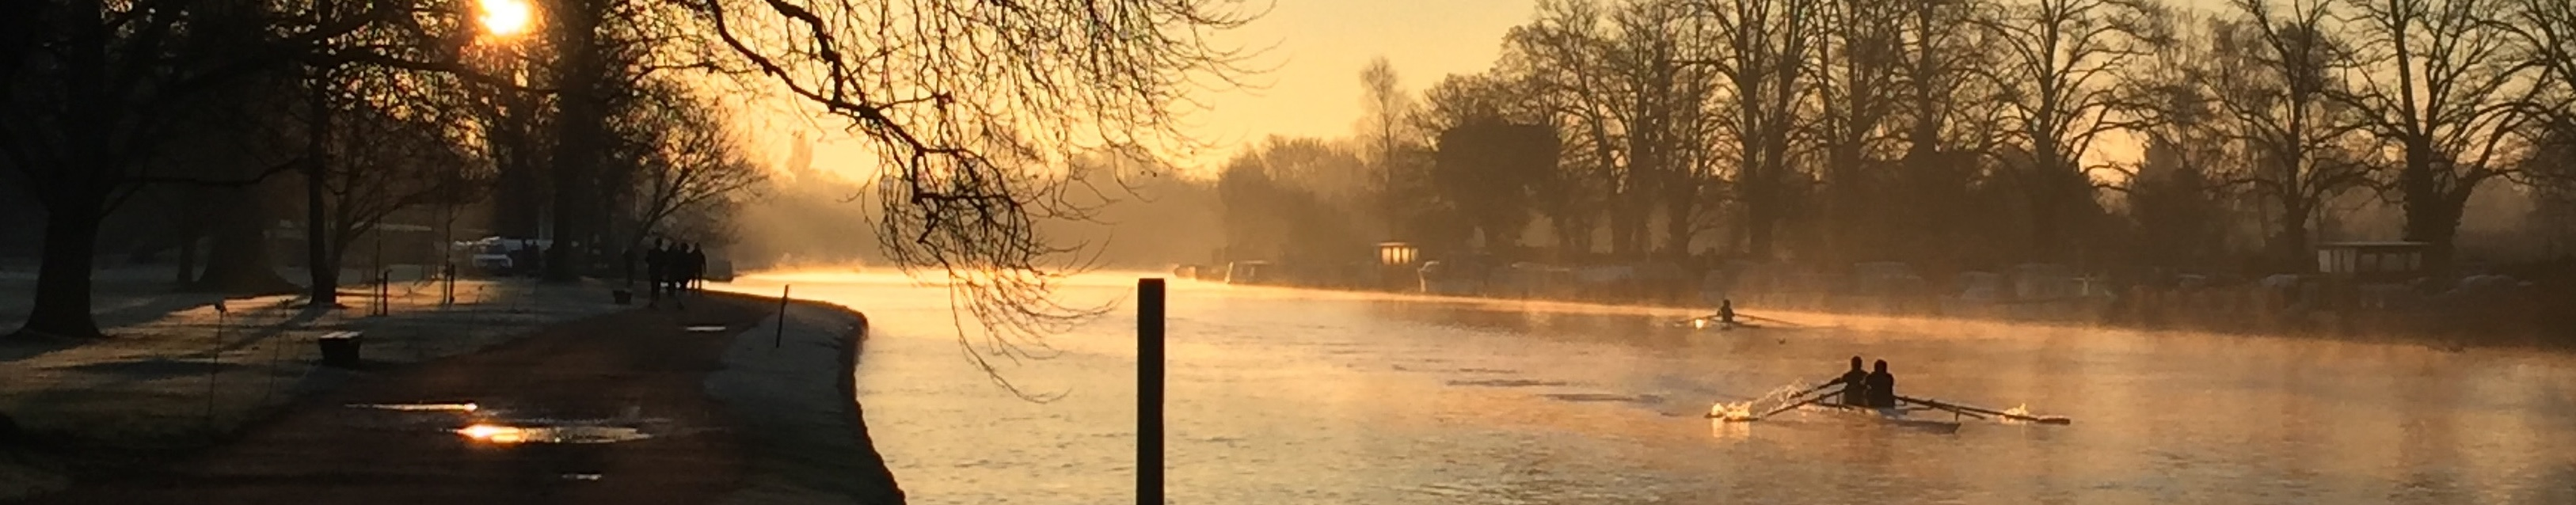
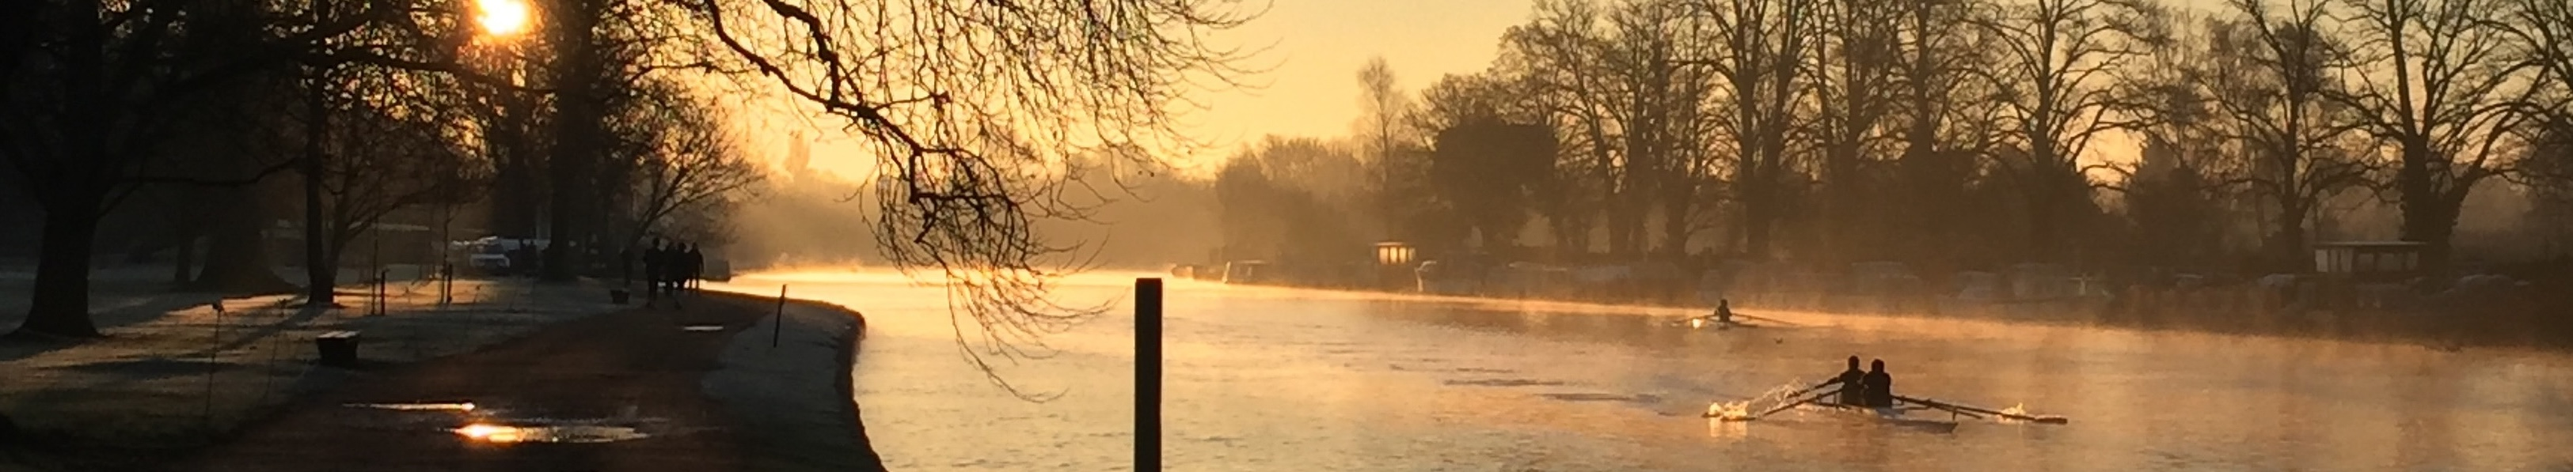
Changed feature image

diff --git a/docs/index.md b/docs/index.md
@@ -1,6 +1,6 @@
 ---
 title:
-feature_image: "/images/background_image/IMG_9164.JPG"
+feature_image: "/images/background_image/IMG_4632.JPG"
 feature_text: |
   ## Topological Learning for Biomedicine
 ---
